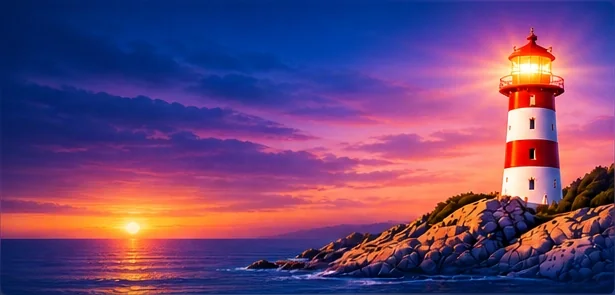
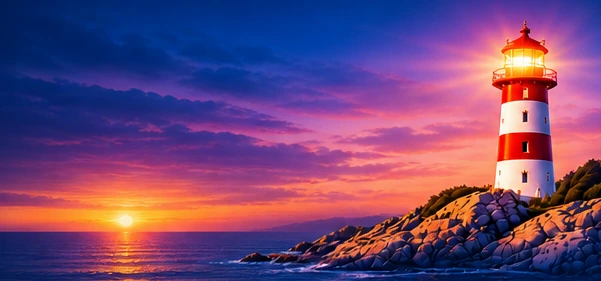
Links: imagen del faro principal (la original con degradé de colores) y menos oscurecimiento encima
Claude-Session: https://claude.ai/code/session_01Jpn2k9DcpBCnuePGHMs4K7

diff --git a/links.html b/links.html
@@ -39,7 +39,7 @@ a{color:inherit;text-decoration:none}
 .hero{position:relative;padding:8px 2px 4px}
 .fondo-faro{position:absolute;top:0;left:0;right:0;height:430px;z-index:-1;pointer-events:none;background:url(/images/links/v2/faro.webp) right top/auto 100% no-repeat;
   -webkit-mask-image:linear-gradient(180deg,#000 0%,#000 55%,transparent 100%);mask-image:linear-gradient(180deg,#000 0%,#000 55%,transparent 100%)}
-.fondo-faro::after{content:'';position:absolute;inset:0;background:linear-gradient(90deg,#071a44 0%,rgba(7,26,68,.92) 38%,rgba(7,26,68,.45) 70%,rgba(7,26,68,.05) 100%)}
+.fondo-faro::after{content:'';position:absolute;inset:0;background:linear-gradient(90deg,rgba(7,26,68,.92) 0%,rgba(7,26,68,.6) 40%,rgba(7,26,68,.15) 70%,rgba(7,26,68,0) 100%)}
 .hero-row{display:grid;grid-template-columns:116px 1fr;gap:14px;align-items:center}
 .foto-aro{position:relative;width:116px;height:116px}
 .foto-aro::before{content:'';position:absolute;inset:-5px;border-radius:50%;background:conic-gradient(from 0deg,#E3000F,#1A4DAA,#3A8FC7,#1A4DAA,#E3000F)}
@@ -120,7 +120,7 @@ footer{margin-top:10px;text-align:center}
   .wrap{max-width:1080px;padding:28px 24px 48px;gap:18px}
   .hero{padding:26px 12px 28px}
   .fondo-faro{height:420px;background-size:cover;background-position:right center}
-  .fondo-faro::after{background:linear-gradient(90deg,#071a44 0%,rgba(7,26,68,.9) 34%,rgba(7,26,68,.4) 62%,rgba(7,26,68,.05) 100%)}
+  .fondo-faro::after{background:linear-gradient(90deg,rgba(7,26,68,.88) 0%,rgba(7,26,68,.55) 34%,rgba(7,26,68,.15) 62%,rgba(7,26,68,0) 100%)}
   .hero-row{grid-template-columns:200px 1fr;gap:34px;min-height:200px}
   .foto-aro{width:200px;height:200px}
   .foto-aro::before{inset:-7px}
@@ -146,8 +146,8 @@ footer{margin-top:10px;text-align:center}
 }
 @media(min-width:900px) and (max-width:1100px){.camino{grid-template-columns:1fr 320px}}
 @media(max-width:899px){
-  .fondo-faro{height:300px;background-size:auto 250px;background-position:right -22px top 0}
-  .fondo-faro::after{background:linear-gradient(90deg,#071a44 0%,rgba(7,26,68,.9) 45%,rgba(7,26,68,.2) 72%,rgba(7,26,68,0) 100%)}
+  .fondo-faro{height:262px;background-size:auto 100%;background-position:right -44px top 0}
+  .fondo-faro::after{background:linear-gradient(90deg,rgba(7,26,68,.85) 0%,rgba(7,26,68,.55) 45%,rgba(7,26,68,.1) 72%,rgba(7,26,68,0) 100%)}
   .hero-row{grid-template-columns:100px minmax(0,1fr);gap:12px}
   .foto-aro{width:100px;height:100px}
   .hero-row>div:last-child{padding-right:10%}
